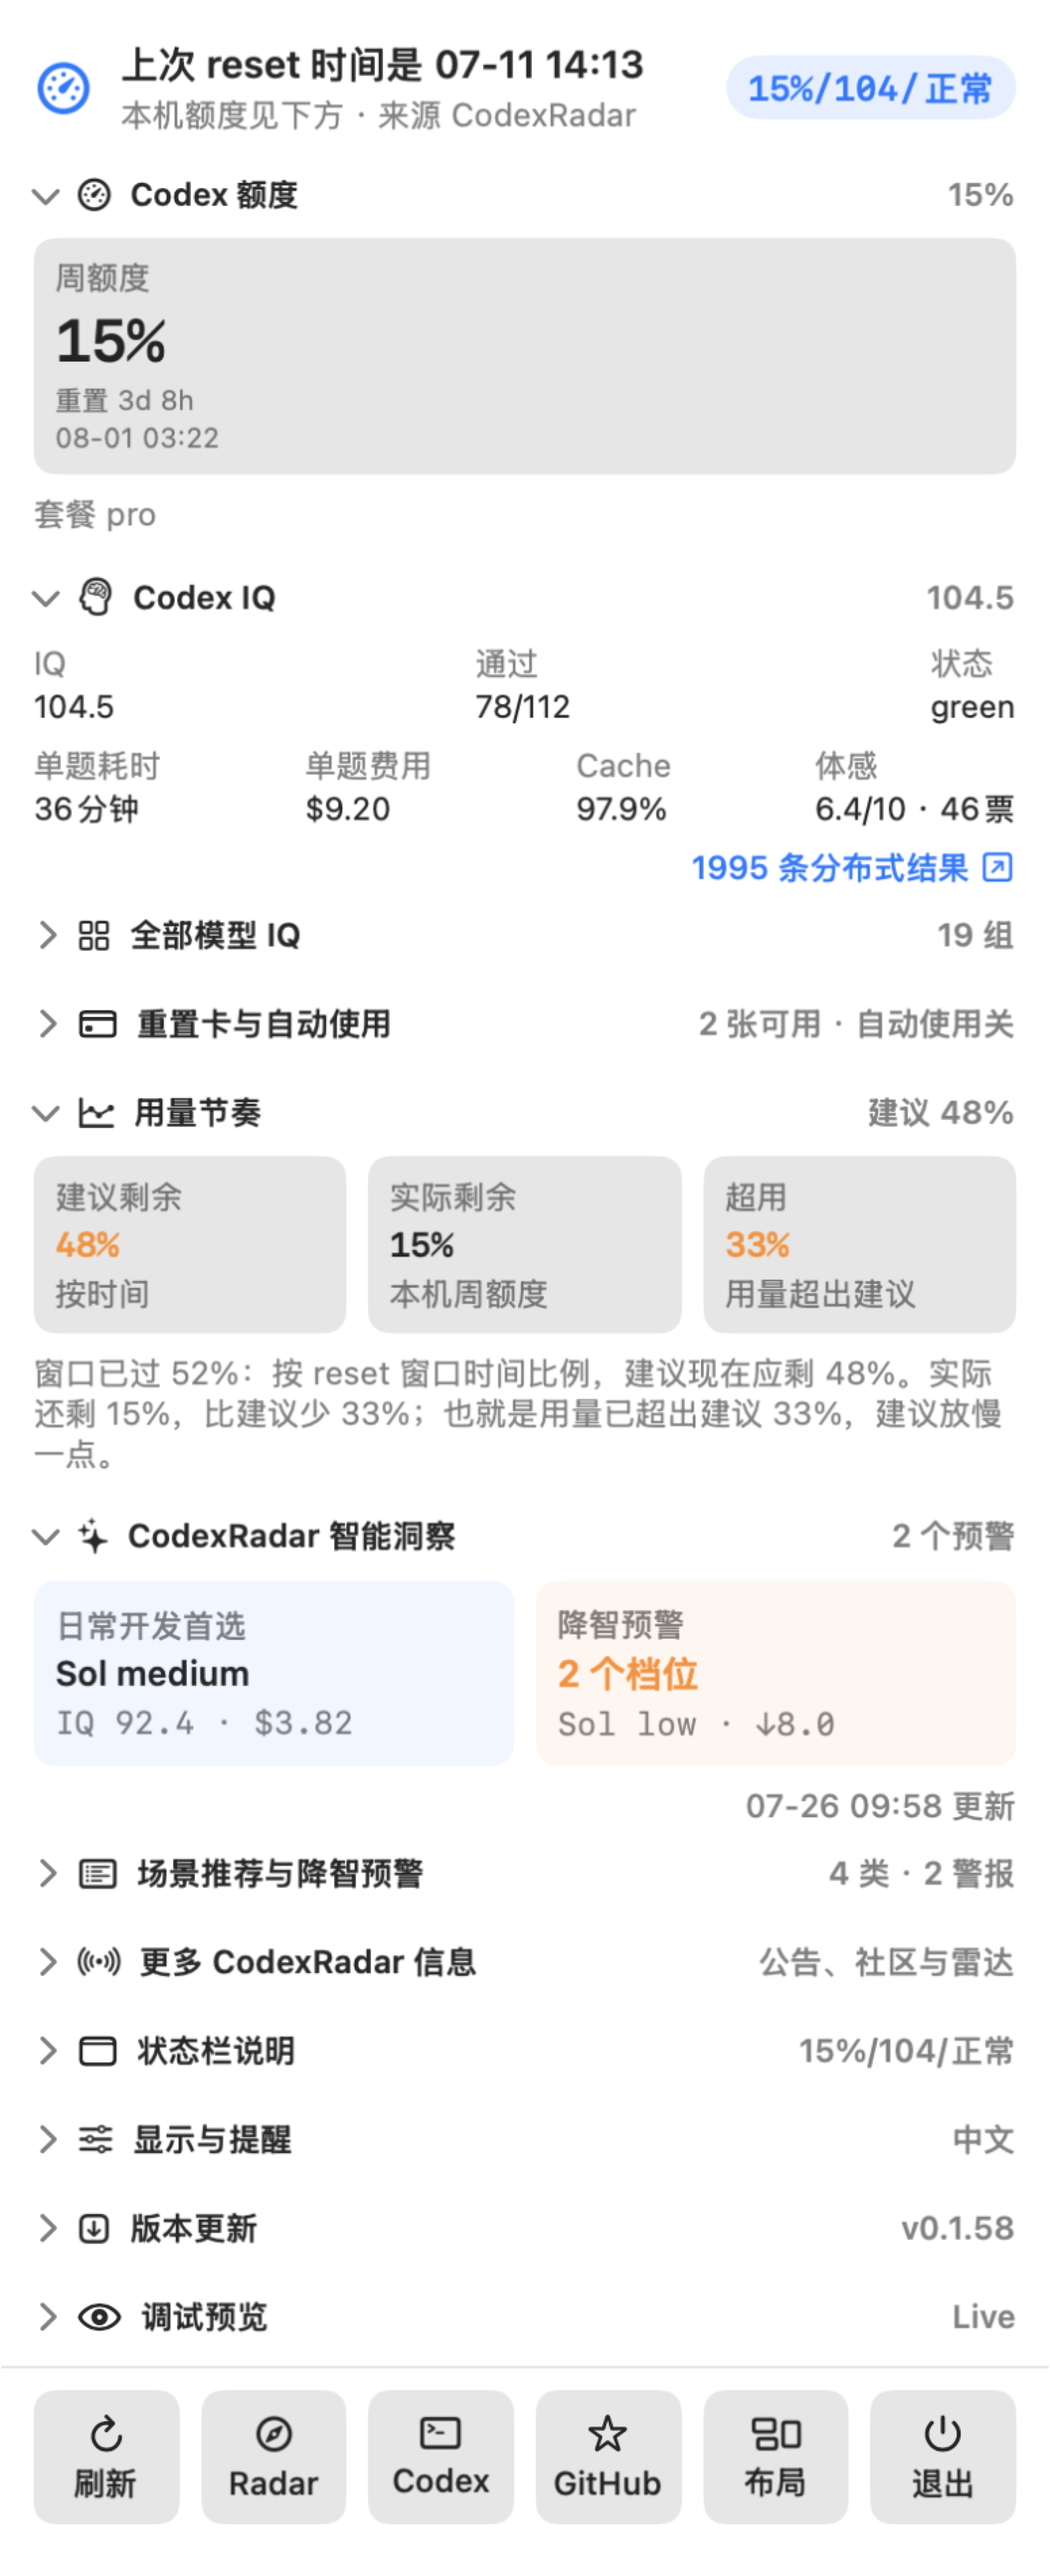
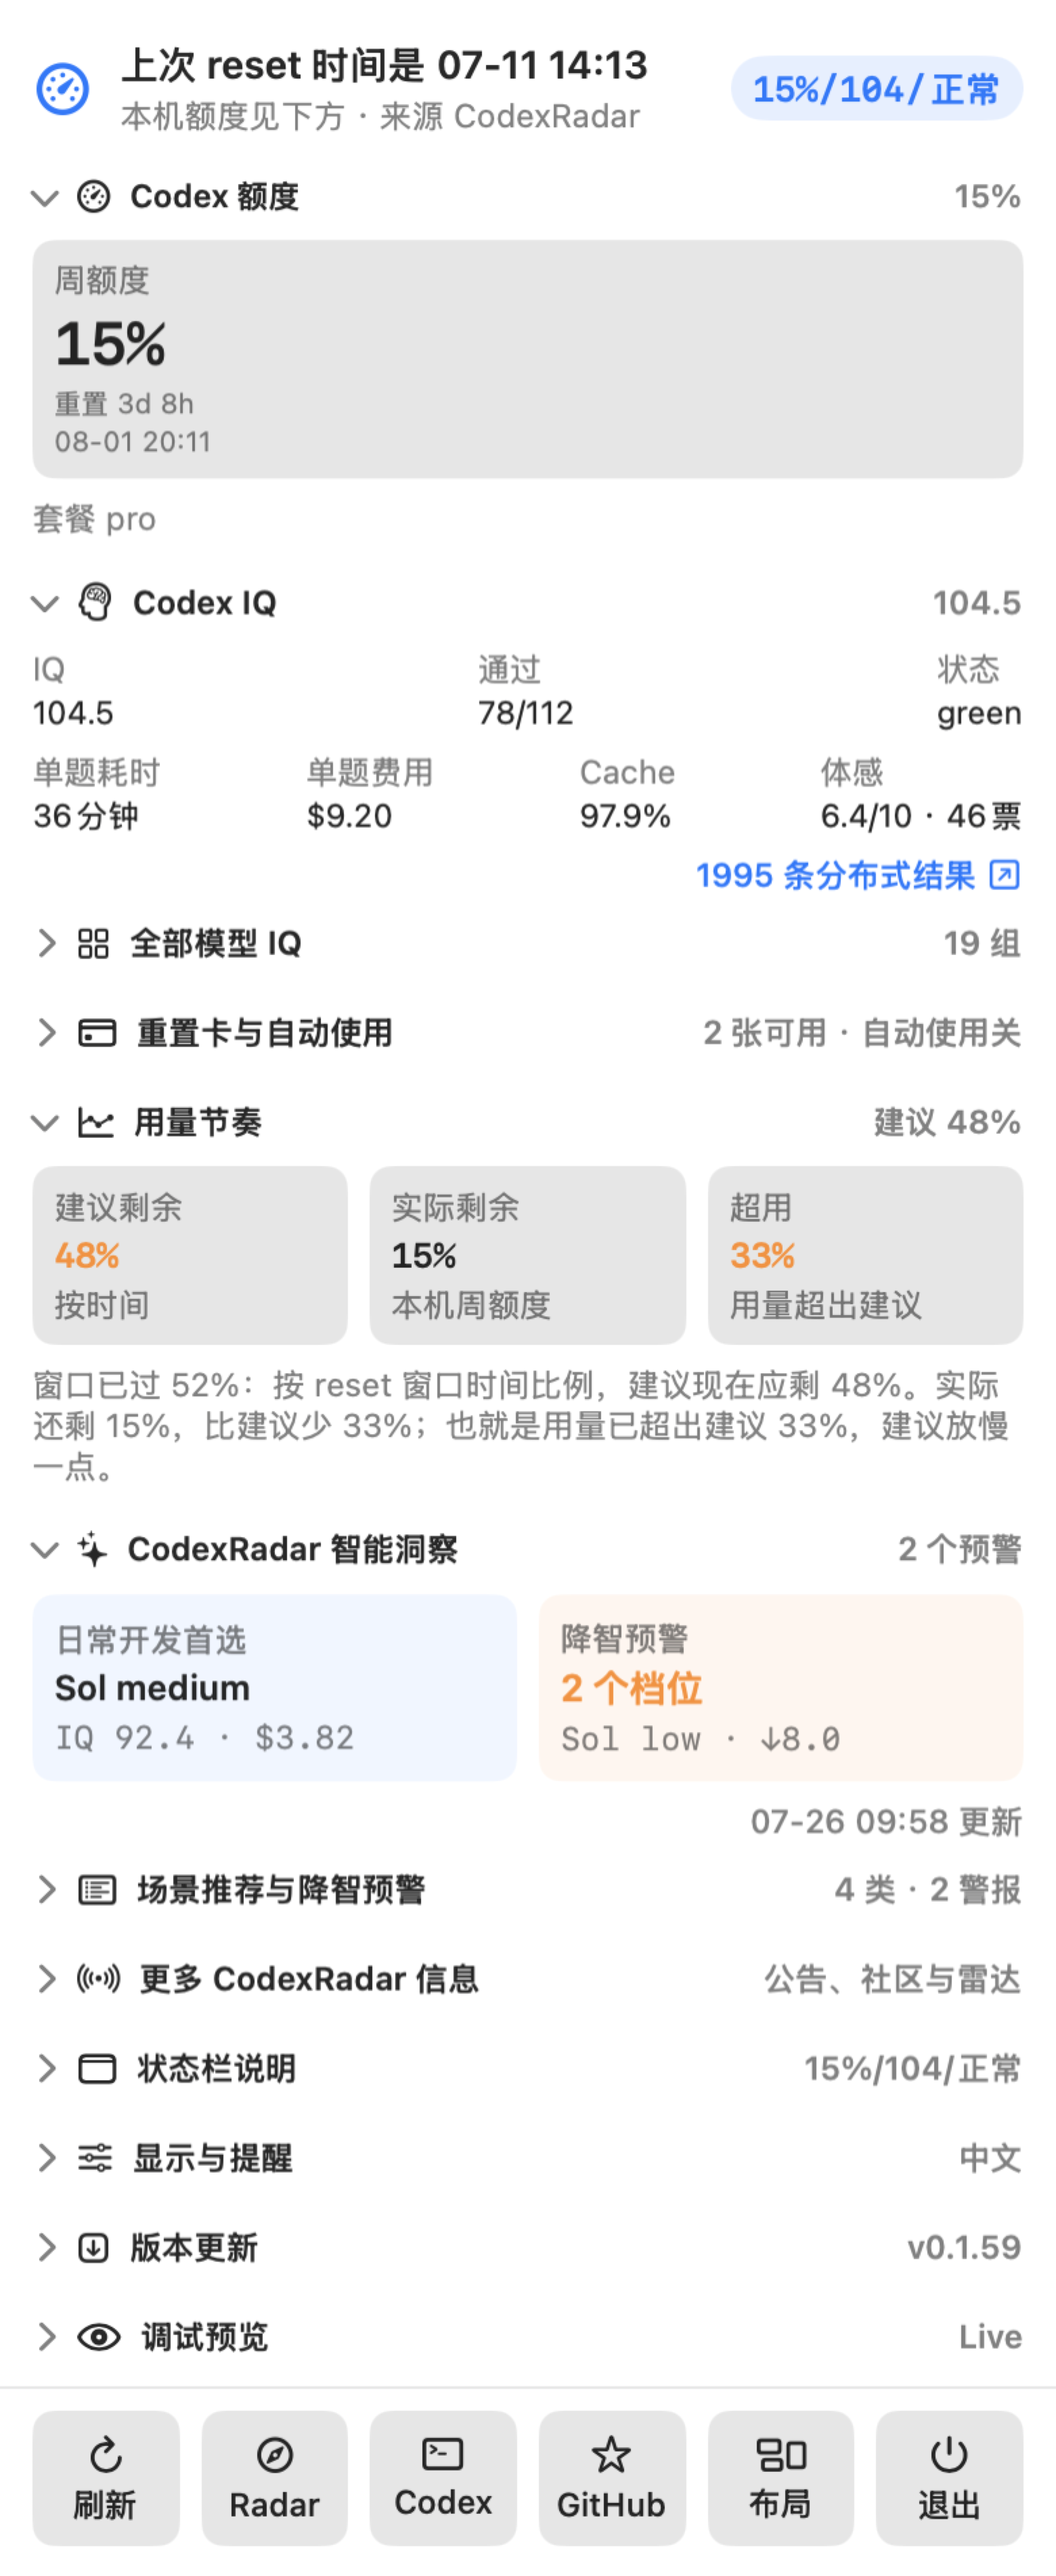
Release v0.1.59
Publish customizable menu ordering and expansion preferences with protected critical states, refreshed bilingual screenshots, and verified macOS release metadata.

Prompt-Id: 81

diff --git a/Sources/CodexRadarCore/AppConstants.swift b/Sources/CodexRadarCore/AppConstants.swift
@@ -4,7 +4,7 @@ public enum AppConstants {
     public static let appName = "Codex Radar Sentinel"
     public static let clientName = "codex-radar-sentinel"
     public static let bundleIdentifier = "com.codexradar.sentinel"
-    public static let appVersion = "0.1.58"
+    public static let appVersion = "0.1.59"
 
     public static let codexLimitID = "codex"
     public static let weeklyWindowMinutes = 10_080.0

diff --git a/README.en.md b/README.en.md
@@ -25,6 +25,12 @@ You can also install manually from [GitHub Releases](https://github.com/WineChor
 
 ## News
 
+### v0.1.59: Arrange the menu around your workflow
+
+- The default hierarchy still keeps the current result, local quota, Codex IQ, reset-credit summary, and usage pace easy to find.
+- Choose `Layout` to drag sections or use the move-up and move-down buttons, then set which sections open by default. Preferences persist when the menu reopens and after an app restart.
+- The current result, urgent alerts, and connection errors remain fixed. Reset-credit or update detail opens temporarily when it needs attention, and the default layout is always one click away.
+
 ### v0.1.58: Pass counts stay on one line
 
 - Values such as `78/112` in `All model IQ` no longer split across lines at larger text sizes, making comparisons easier to scan.
@@ -37,14 +43,10 @@ You can also install manually from [GitHub Releases](https://github.com/WineChor
 - Notices, community notes, and detailed radar sections share one `More from CodexRadar` disclosure. Reset credits, the menu-bar guide, and display settings also use clear collapsed-by-default entries.
 - Critical alerts remain fixed at the top. Reset-credit detail opens automatically for blocked, missed, or unresolved attempts, so only routine state stays out of the way.
 
-### v0.1.56: More resilient live data
-
-- When CodexRadar has no temporary notice, the menu hides the notice section instead of treating a valid empty state as a failure.
-- Notice changes do not interrupt local quota, Model IQ, Reset Radar, Fast Radar, or Insights updates.
-
 <details>
 <summary><strong>Earlier releases</strong> — expand for previous product milestones</summary>
 
+- **v0.1.56**: accepts a missing temporary notice as a normal empty state without interrupting other live data.
 - **v0.1.55**: added scenario recommendations and degradation alerts while retaining the last valid result through network or schema failures.
 - **v0.1.54**: prevented normal clock synchronization from disabling reset-credit auto-use and made unresolved attempts reconcile read only first.
 - **v0.1.53**: completed 19 Intelligence Efficiency configurations, clarified overuse wording, and added explicitly enabled, default-off auto-use before reset credits expire.
@@ -212,14 +214,14 @@ CODEX_RADAR_CODEX_PATH=/path/to/codex swift run CodexRadarSentinel
 ```bash
 swift test
 swift build -c release
-./scripts/check_release_readiness.sh 0.1.58
+./scripts/check_release_readiness.sh 0.1.59
 ```
 
 Build release assets:
 
 ```bash
 ./scripts/build_app.sh
-./scripts/package_release.sh 0.1.58
+./scripts/package_release.sh 0.1.59
 ```
 
 Update the menu-bar and full-menu screenshots:

diff --git a/README.md b/README.md
@@ -25,6 +25,12 @@ https://github.com/WineChord/codex-radar/releases/latest
 
 ## News / 最新功能
 
+### v0.1.59：菜单布局按习惯调整
+
+- 默认层级继续优先展示当前结论、本机额度、Codex IQ、重置卡摘要和用量节奏，常用信息无需先翻找设置。
+- 点击底部“布局”即可拖动模块，或使用上移、下移按钮调整顺序，并分别设置默认展开状态；选择会在重新打开菜单和重启应用后保留。
+- 当前结论、紧急提示和连接错误始终固定可见；需要处理的重置卡或更新状态会临时展开，也可以一键恢复默认布局。
+
 ### v0.1.58：多模型通过数保持完整
 
 - “全部模型 IQ”中的 `78/112` 等通过数不再在较大字号下断成两行，横向比较更直接。
@@ -37,14 +43,10 @@ https://github.com/WineChord/codex-radar/releases/latest
 - 公告、社区知识和各类雷达明细统一收进“更多 CodexRadar 信息”，重置卡、状态栏说明和显示设置也采用清晰的默认折叠入口。
 - 关键告警仍固定在顶部；重置卡遇到阻塞、遗漏或未决对账时会自动展开，折叠只减少正常状态下的日常干扰。
 
-### v0.1.56：更稳的在线数据兼容
-
-- CodexRadar 没有临时公告时，菜单会正常隐藏公告区，而不是把有效的空状态当作故障。
-- 公告变化不会影响本机额度、Model IQ、重置雷达、Fast 雷达或智能洞察的更新。
-
 <details>
 <summary><strong>历史版本</strong> — 展开查看更早的产品里程碑</summary>
 
+- **v0.1.56**：兼容没有临时公告的正常空状态，公告变化不再影响其他在线数据更新。
 - **v0.1.55**：加入场景推荐与降智预警，并在网络或数据格式异常时保留上一次有效结果。
 - **v0.1.54**：避免正常系统校时误关重置卡自动使用，并让未决请求优先只读对账。
 - **v0.1.53**：补齐 19 组智力效率数据，改善“超用”表达，并加入默认关闭、需要明确确认的重置卡到期前自动使用。
@@ -212,14 +214,14 @@ CODEX_RADAR_CODEX_PATH=/path/to/codex swift run CodexRadarSentinel
 ```bash
 swift test
 swift build -c release
-./scripts/check_release_readiness.sh 0.1.58
+./scripts/check_release_readiness.sh 0.1.59
 ```
 
 构建发布包：
 
 ```bash
 ./scripts/build_app.sh
-./scripts/package_release.sh 0.1.58
+./scripts/package_release.sh 0.1.59
 ```
 
 更新中英文状态栏与菜单截图：
